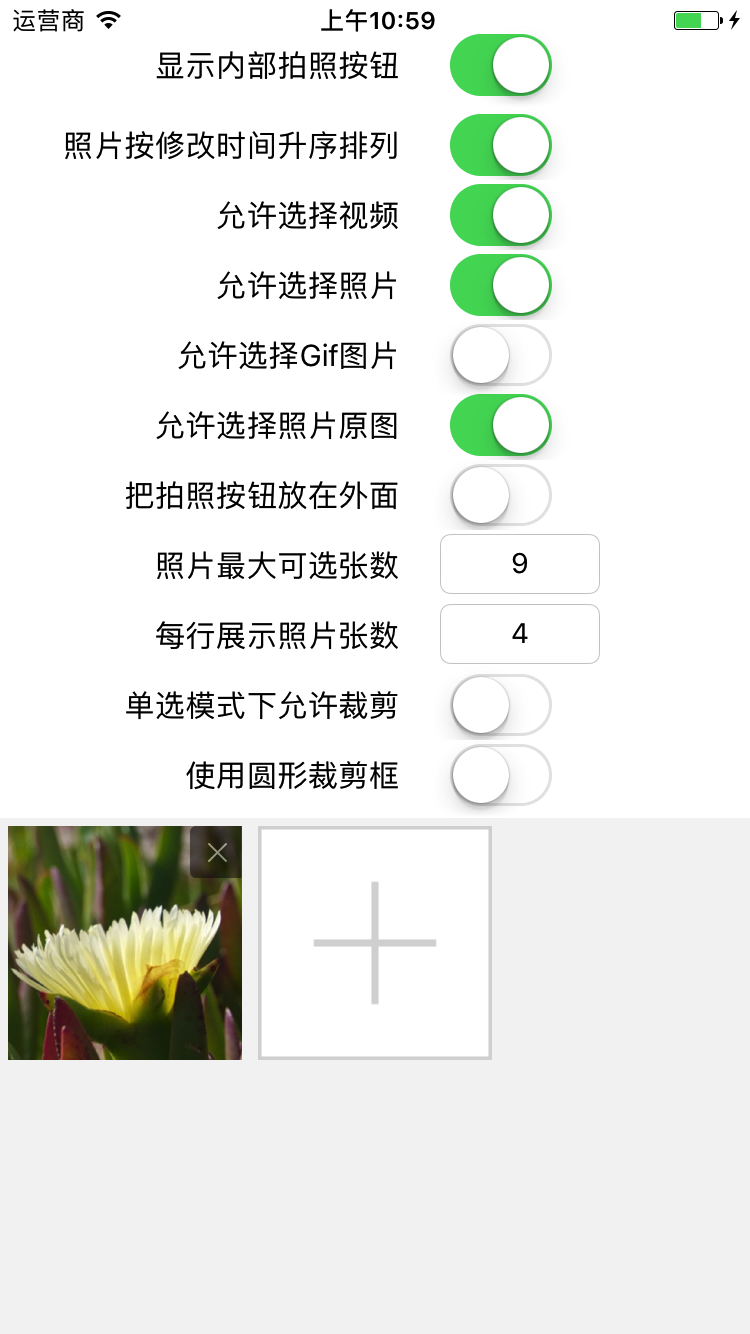
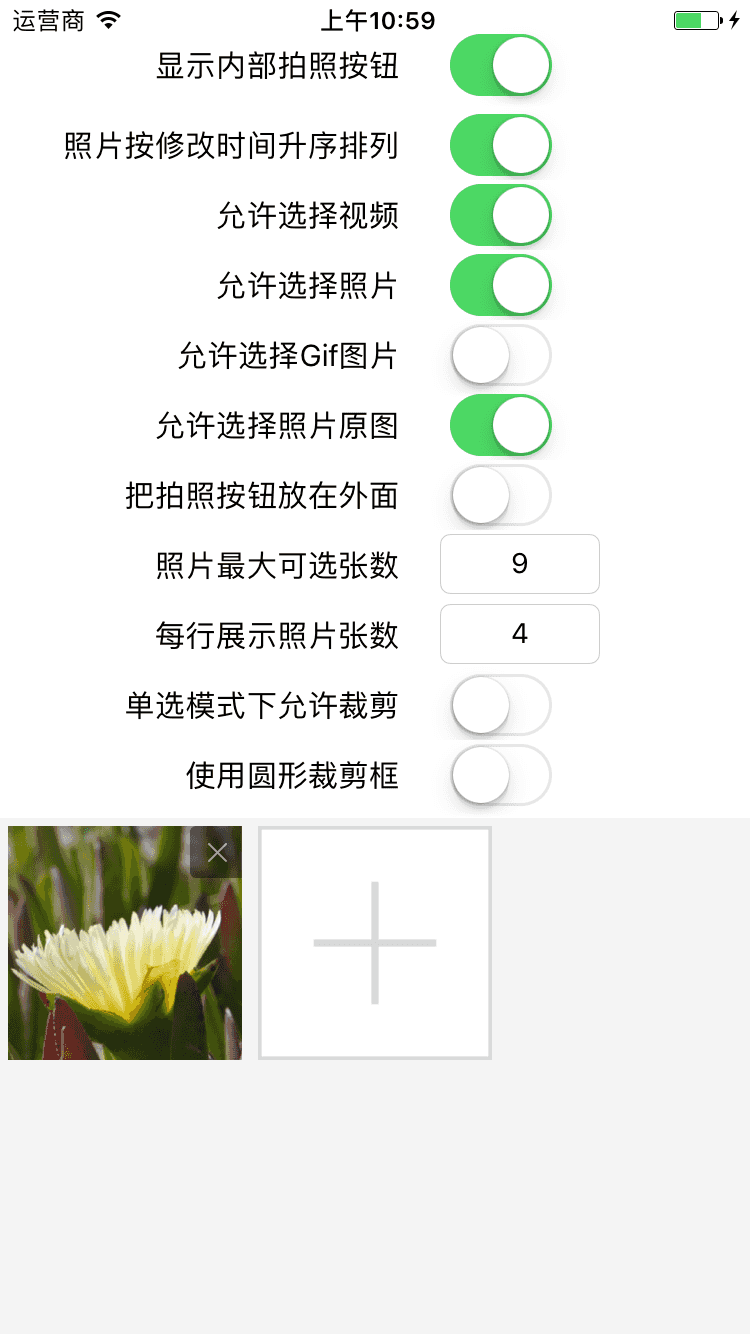
readme效果图换回压缩过的png

Changed region(s): [[0.0, 0.6147, 0.3373, 0.7991]]

diff --git a/README.md b/README.md
@@ -16,8 +16,8 @@
  在Xcode8环境下将项目运行在iOS10的设备/模拟器中，访问相册和相机需要额外配置info.plist文件。分别是Privacy - Photo Library Usage Description和Privacy - Camera Usage Description字段，详见Demo中info.plist中的设置。
     
      项目截图 1.Demo首页 2.照片列表页 3.照片预览页 4.视频预览页
-<img src="https://github.com/banchichen/TZImagePickerController/blob/master/TZImagePickerController/ScreenShots/DemoPage.webp" width="40%" height="40%"><img src="https://github.com/banchichen/TZImagePickerController/blob/master/TZImagePickerController/ScreenShots/photoPickerVc.webp" width="40%" height="40%">
-<img src="https://github.com/banchichen/TZImagePickerController/blob/master/TZImagePickerController/ScreenShots/photoPreviewVc.webp" width="40%" height="40%"><img src="https://github.com/banchichen/TZImagePickerController/blob/master/TZImagePickerController/ScreenShots/videoPlayerVc.webp" width="40%" height="40%">
+<img src="https://github.com/banchichen/TZImagePickerController/blob/master/TZImagePickerController/ScreenShots/DemoPage.png" width="40%" height="40%"><img src="https://github.com/banchichen/TZImagePickerController/blob/master/TZImagePickerController/ScreenShots/photoPickerVc.png" width="40%" height="40%">
+<img src="https://github.com/banchichen/TZImagePickerController/blob/master/TZImagePickerController/ScreenShots/photoPreviewVc.png" width="40%" height="40%"><img src="https://github.com/banchichen/TZImagePickerController/blob/master/TZImagePickerController/ScreenShots/videoPlayerVc.png" width="40%" height="40%">
 
 ## 一. Installation 安装
 
